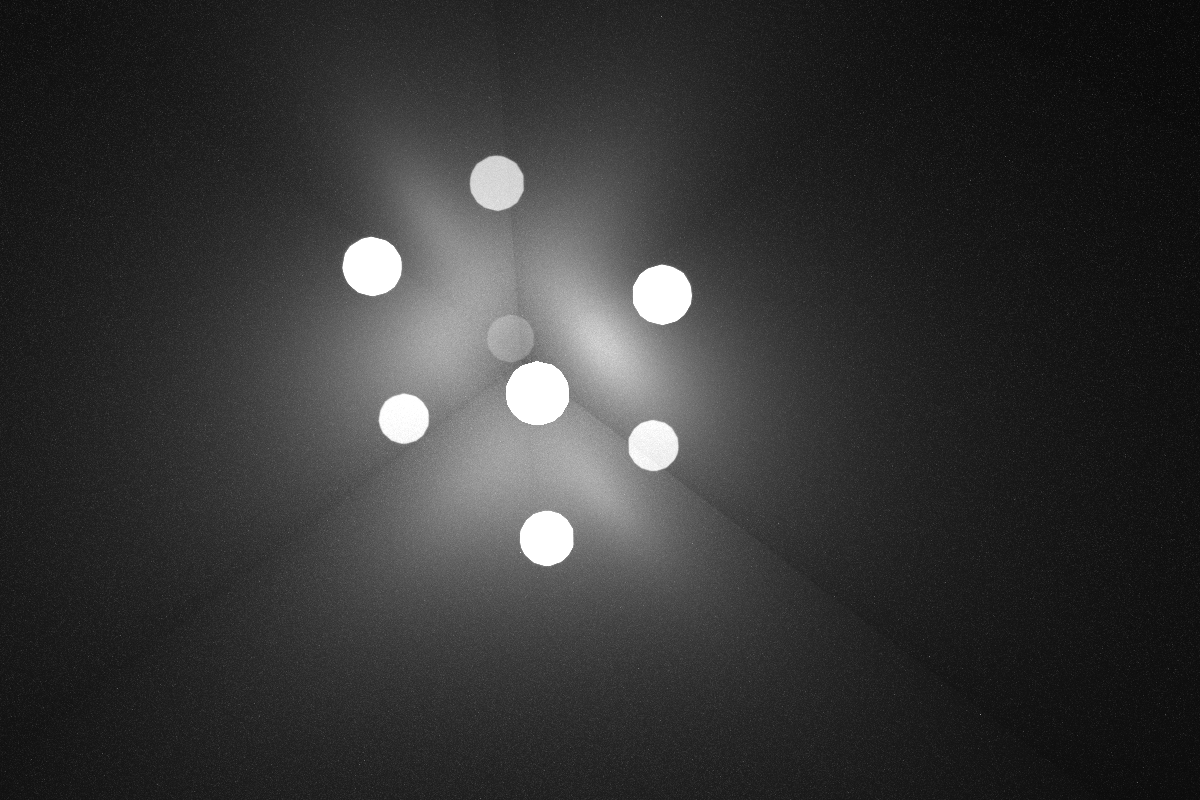
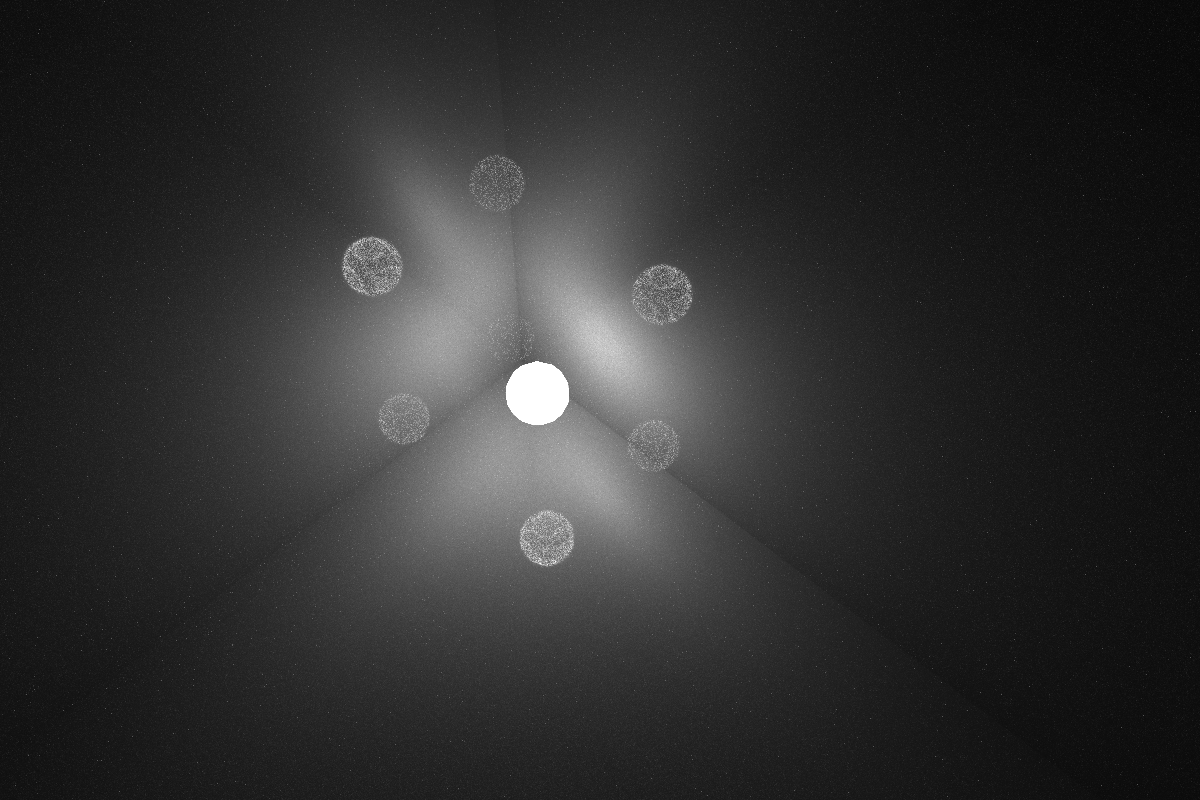
尝试修正NEE中白噪点情况(clamp法)

diff --git a/raytrace_work/config.h b/raytrace_work/config.h
@@ -1,14 +1,15 @@
 # pragma once
 # define VISUALIZE true
-# define DOWNLOAD 1
 # define DOWNLOAD_RAW 1
 # define DOWNLOAD_DIR "../../output/"
 
 # define GT_ENABLE 0
 # define GT_DIR "../../ground_truth/300s.rawFrame"
 
-# define FIXED_CAMERA 1
-# define VISIBLE_MOUSE 1
+# define TESTMODE 1
+# define DOWNLOAD TESTMODE
+# define FIXED_CAMERA TESTMODE
+# define VISIBLE_MOUSE TESTMODE
 
 # define CAMERA_SET 0
 
@@ -17,4 +18,4 @@
 # define MY_BRDF 0
 # define MY_NEE 1
 # define MY_MIS 2
-# define MY_MODE MY_MIS
+# define MY_MODE MY_NEE

diff --git a/raytrace_work/PRD.h b/raytrace_work/PRD.h
@@ -17,6 +17,8 @@ namespace osc {
         vec3f  sourcePos;
         vec3f nextPosition;
         vec3f weight;
+        vec3f pdf;
+        vec3f eval;
         bool end;
         BDPTVertex* vertexs;
 

diff --git a/raytrace_work/SampleRenderer.cpp b/raytrace_work/SampleRenderer.cpp
@@ -635,7 +635,7 @@ namespace osc {
                             1
                             ));
 
-
+    //system("pause");
     denoiserIntensity.resize(sizeof(float));
 
     
